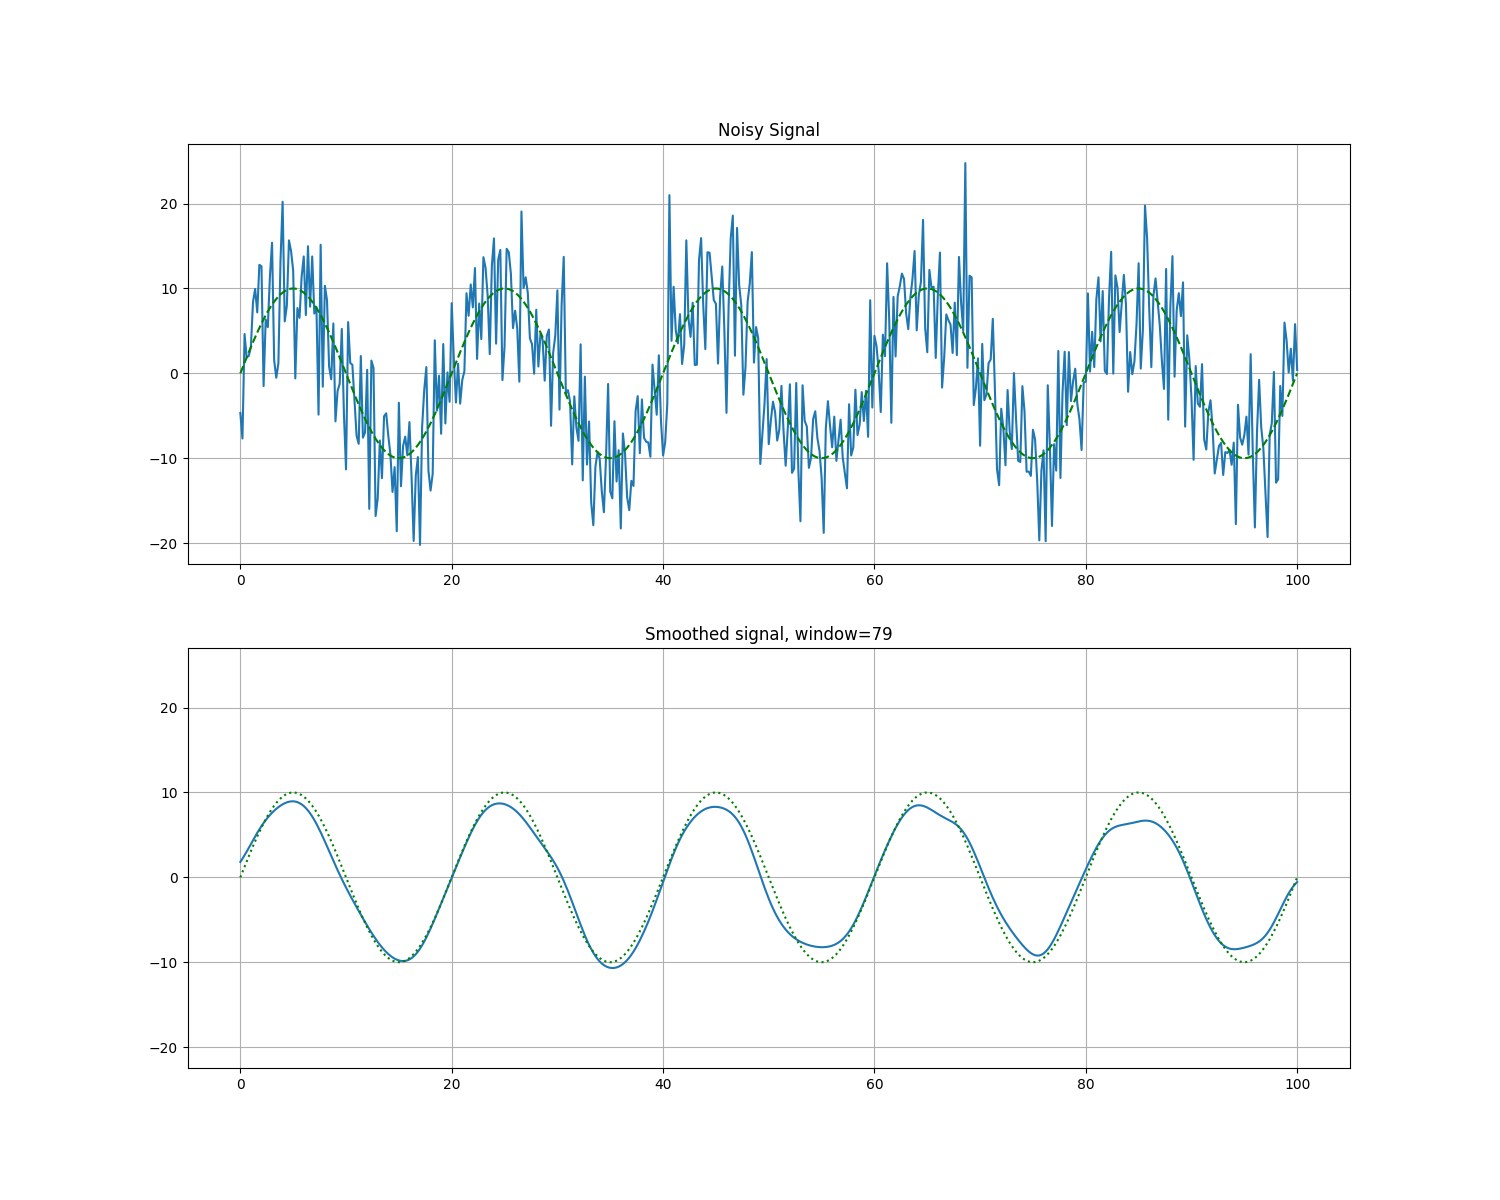
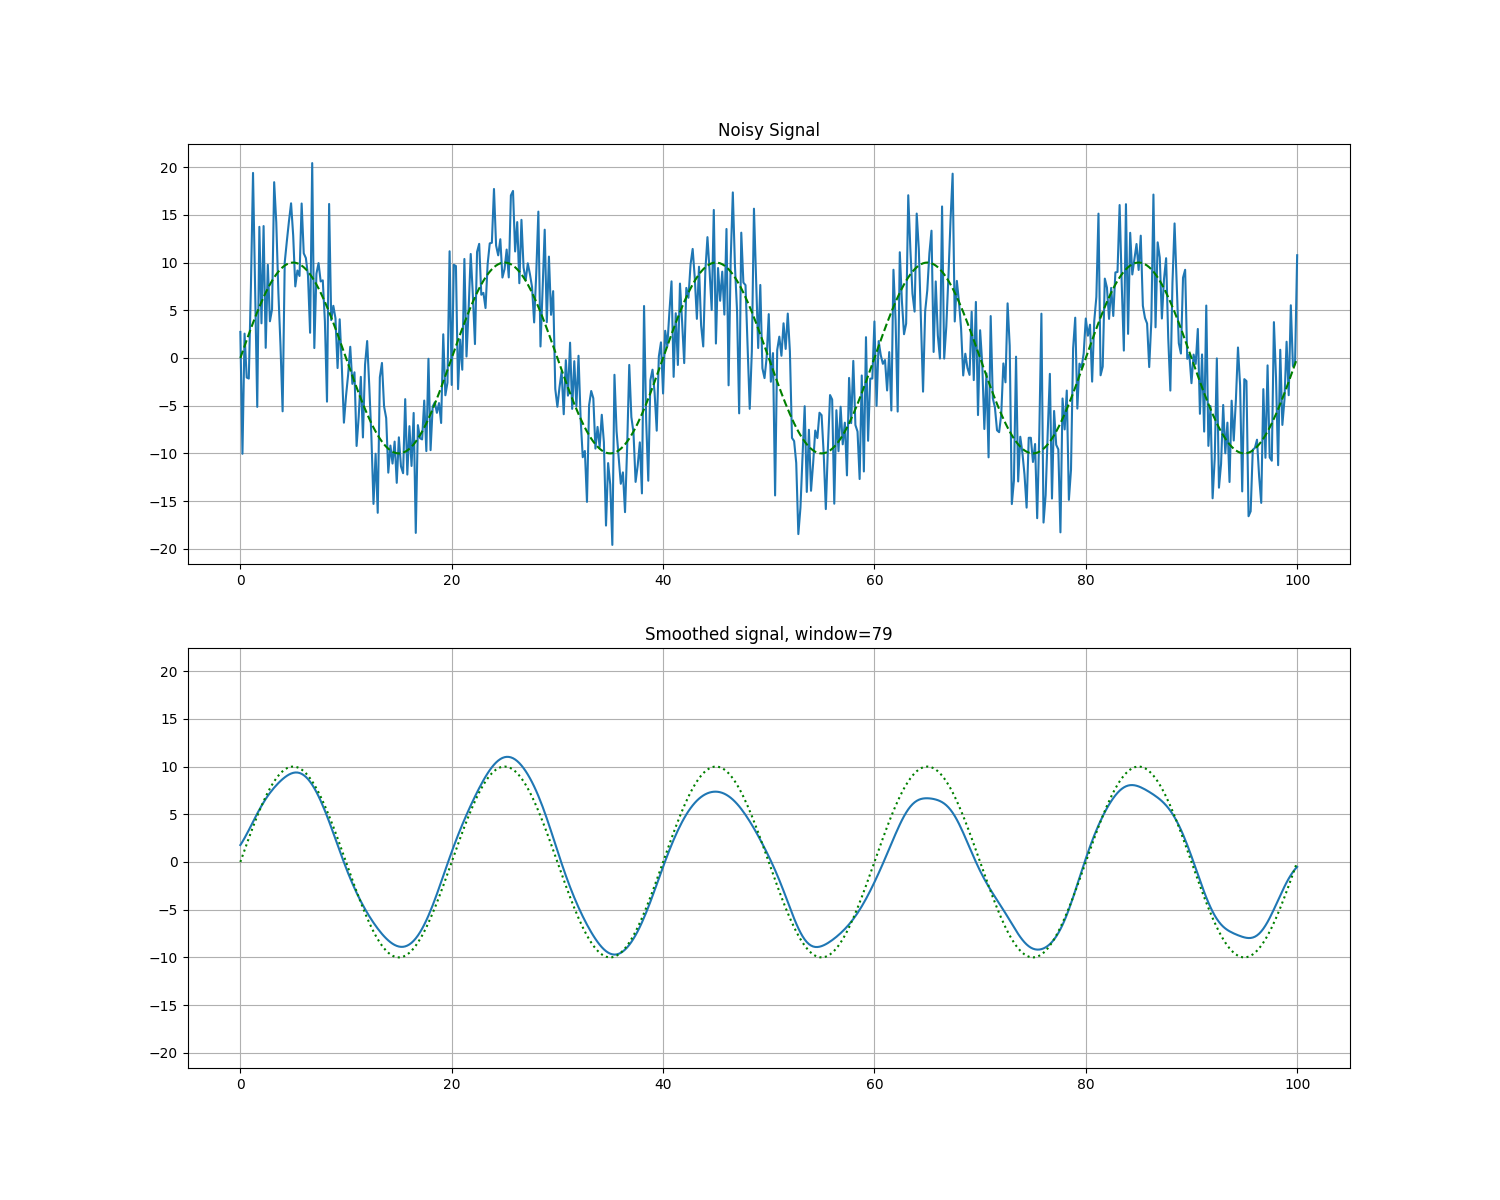
applied to main, added README

diff --git a/src/Signal_Analysis_Toolkit/main.py b/src/Signal_Analysis_Toolkit/main.py
@@ -1,7 +1,7 @@
 import numpy as np
 import matplotlib.pyplot as plt
 from .signal import Signal, SineSignal, SquareSignal, load_signal
-from .pipeline import SignalPipeline, remove_dc, smooth
+from .pipeline import SignalPipeline, remove_dc, smooth, find_dominant_frequency, min_max_normalize, z_score_normalize, lowpass_filter, highpass_filter, bandpass_filter
 from pathlib import Path
 
 PROJECT_ROOT = Path(__file__).resolve().parent.parent.parent
@@ -12,19 +12,38 @@ sine_noisy = sine.noisy(0.5)
 square = SquareSignal(5, 100, amplitude=5, frequency=2)
 square_noisy = square.noisy(0.4)
 
+# pipleline = SignalPipeline()
+# pipleline.add_step(lowpass_filter)
+# pipleline.add_step(smooth)
 
+processed = sine_noisy.generate()
+processed = lowpass_filter(processed, cutoff=2)
+processed = smooth(processed, window=20, normal=True)
 
-fig, ax = plt.subplots(2,1,figsize=(15,12))
-ax[0].plot(np.linspace(0,100,len(sine_noisy.generate())), sine_noisy.generate())
-ax[0].plot(np.linspace(0,100,len(sine.generate())), sine.generate(), color="g", ls="--")
+fig, ax = plt.subplots(3,1,figsize=(14,10))
+ax[0].plot(range(len(sine.generate())), sine.generate())
+ax[0].set_title("Clean signal")
 ax[0].grid(True)
-ax[0].set_title("Noisy Signal")
-line, = ax[1].plot(np.linspace(0,100,len(smooth(sine_noisy.generate()))), smooth(sine_noisy.generate(), window=1))
-ax[1].plot(np.linspace(0,100,len(sine.generate())), sine.generate(), color="g", ls=":")
+ax[1].plot(range(len(sine_noisy.generate())), sine_noisy.generate())
+ax[1].set_title("Noisy signal")
 ax[1].grid(True)
-for j in [0,1]:
-    for i in range(1,80):
-        ax[1].set_title(f"Smoothed signal, window={i}")
-        line.set_ydata( smooth(sine_noisy.generate(), window=i, normal=j))
-        plt.savefig(DATA_DIR/"figure.png")
-        plt.pause(0.10) #Pause before the next figure
+ax[2].plot(range(len(processed)), processed)
+ax[2].set_title("processed signal")
+ax[2].grid(True)
+plt.show()
+
+# processed = square_noisy.generate()
+# # processed = highpass_filter(processed, cutoff=2)
+# processed = smooth(processed, window=3, normal=True)
+
+# fig, ax = plt.subplots(3,1,figsize=(14,10))
+# ax[0].plot(range(len(square.generate())), square.generate())
+# ax[0].set_title("Clean signal")
+# ax[0].grid(True)
+# ax[1].plot(range(len(square_noisy.generate())), square_noisy.generate())
+# ax[1].set_title("Noisy signal")
+# ax[1].grid(True)
+# ax[2].plot(range(len(processed)), processed)
+# ax[2].set_title("processed signal")
+# ax[2].grid(True)
+# plt.show()

diff --git a/src/Signal_Analysis_Toolkit/pipeline.py b/src/Signal_Analysis_Toolkit/pipeline.py
@@ -38,7 +38,7 @@ def smooth(signal, window=3, normal=False):
         smoothed = np.convolve(signal, kernel, mode='same')
     return smoothed    
 
-def find_dominant_frequency(signal, sample_rate):
+def find_dominant_frequency(signal, sample_rate=100):
     fft_signal = np.fft.fft(signal)
     freqs = np.fft.fftfreq(len(signal), d=1/sample_rate)
     half = len(signal)//2
@@ -57,19 +57,19 @@ def clip_outliers(signal, n_std=3):
     mean, std = signal.mean(), signal.std()
     return np.clip(signal, mean-n_std*std, mean + n_std*std)
 
-def lowpass_filter(signal, sample_rate, cutoff):
+def lowpass_filter(signal, sample_rate=100, cutoff=5):
     fft_vals = np.fft.fft(signal)
     freqs = np.fft.fftfreq(len(signal), d=1/sample_rate)
     fft_vals[np.abs(freqs) > cutoff] = 0
     return np.fft.ifft(fft_vals).real
 
-def highpass_filter(signal, sample_rate, cutoff): 
+def highpass_filter(signal, sample_rate=100, cutoff=60): 
     fft_vals = np.fft.fft(signal)
     freqs = np.fft.fftfreq(len(signal), d=1/sample_rate)
     fft_vals[np.abs(freqs) < cutoff] = 0
     return np.fft.ifft(fft_vals).real
 
-def bandpass_filter(signal, sample_rate, low, high): 
+def bandpass_filter(signal, sample_rate=100, low=5, high=60): 
     fft_vals = np.fft.fft(signal)
     freqs = np.fft.fftfreq(len(signal), d=1/sample_rate)
     fft_vals[np.abs(freqs) < low] = 0

diff --git a/README.md b/README.md
@@ -1,0 +1,6 @@
+THIS IS A SIGNAL PROCESSSING PROJECT. 
+
+ITS NOT VERY FOCUSED AND USEFULL ON SIGNAL PROCESSING ITSSELF ITS MORE OF A PRACTICE PROJECT FOR IMPLIMENTING
+NUMPY AND MATPLOTLIB FOR SIGNAL PROCESSING AND ALSO PRACTICING OOP. 
+
+THE PIPELINE CLASS IS NOT VERY USEFUL AND IN THE SIGNAL CLASS YOU CANNOT ADD SINUSOIDS OF DIFFERENT FREQUENCIES ONTO ONE SIGNAL
